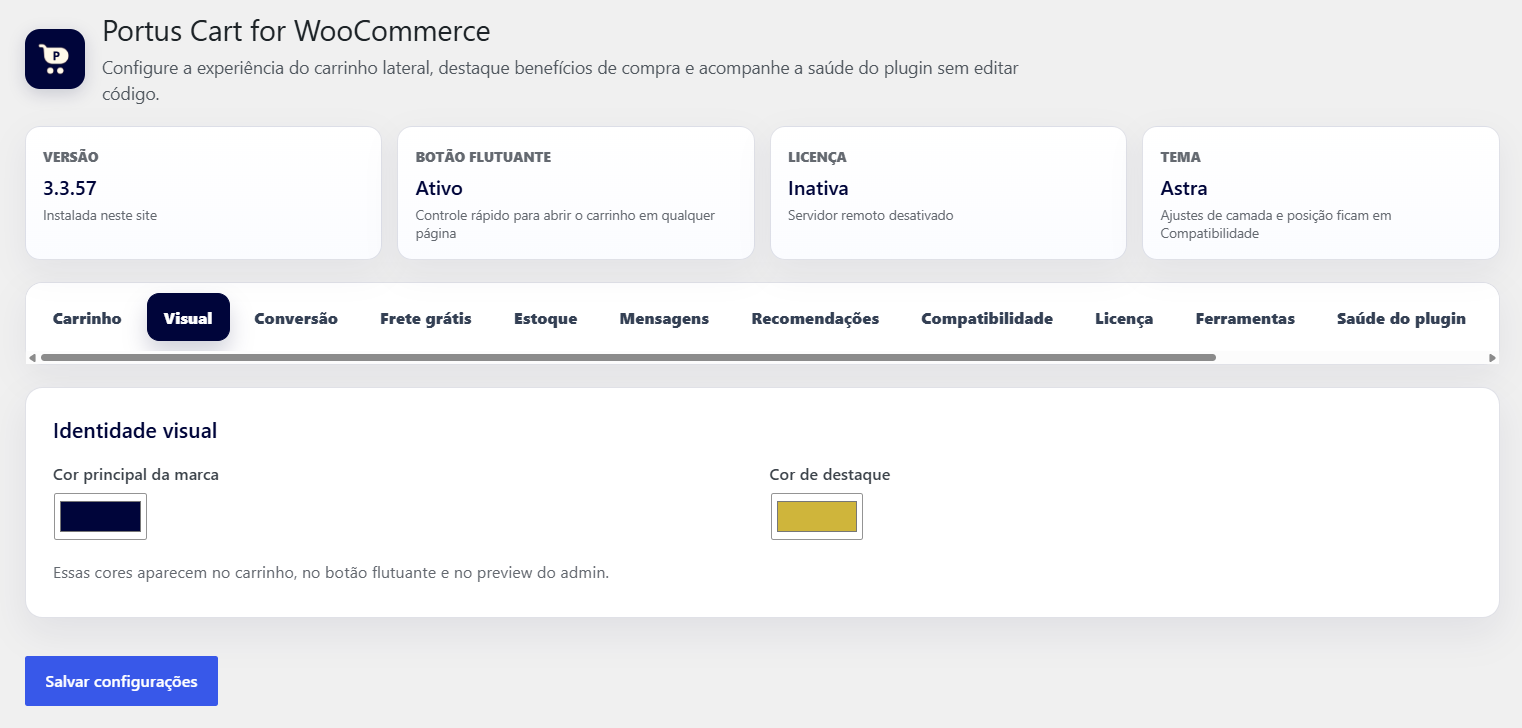
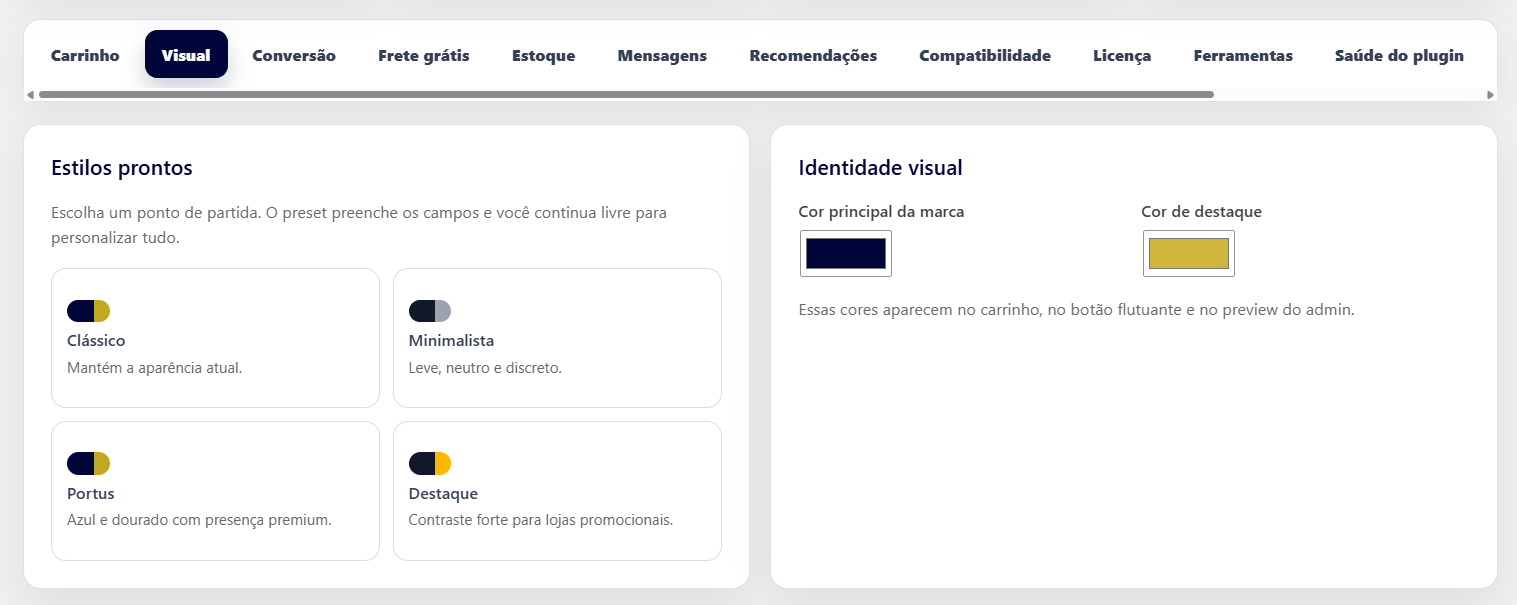
Update WordPress.org admin screenshots

diff --git a/wordpress-org-assets/README.md b/wordpress-org-assets/README.md
@@ -17,7 +17,7 @@ These source assets are copied into `dist/wordpress-org/portus-cart/assets` by `
 2. `screenshot-2.png` - Empty cart state.
 3. `screenshot-3.png` - Mobile side cart.
 4. `screenshot-4.png` - Desktop shop with side cart overlay.
-5. `screenshot-5.png` - Main admin settings.
-6. `screenshot-6.png` - About / Portus admin screen.
+5. `screenshot-5.png` - Visual presets and brand color settings.
+6. `screenshot-6.png` - Cart, menu/header and add-to-cart feedback settings.
 7. `screenshot-7.png` - Conversion settings.
 8. `screenshot-8.png` - Plugin health screen.